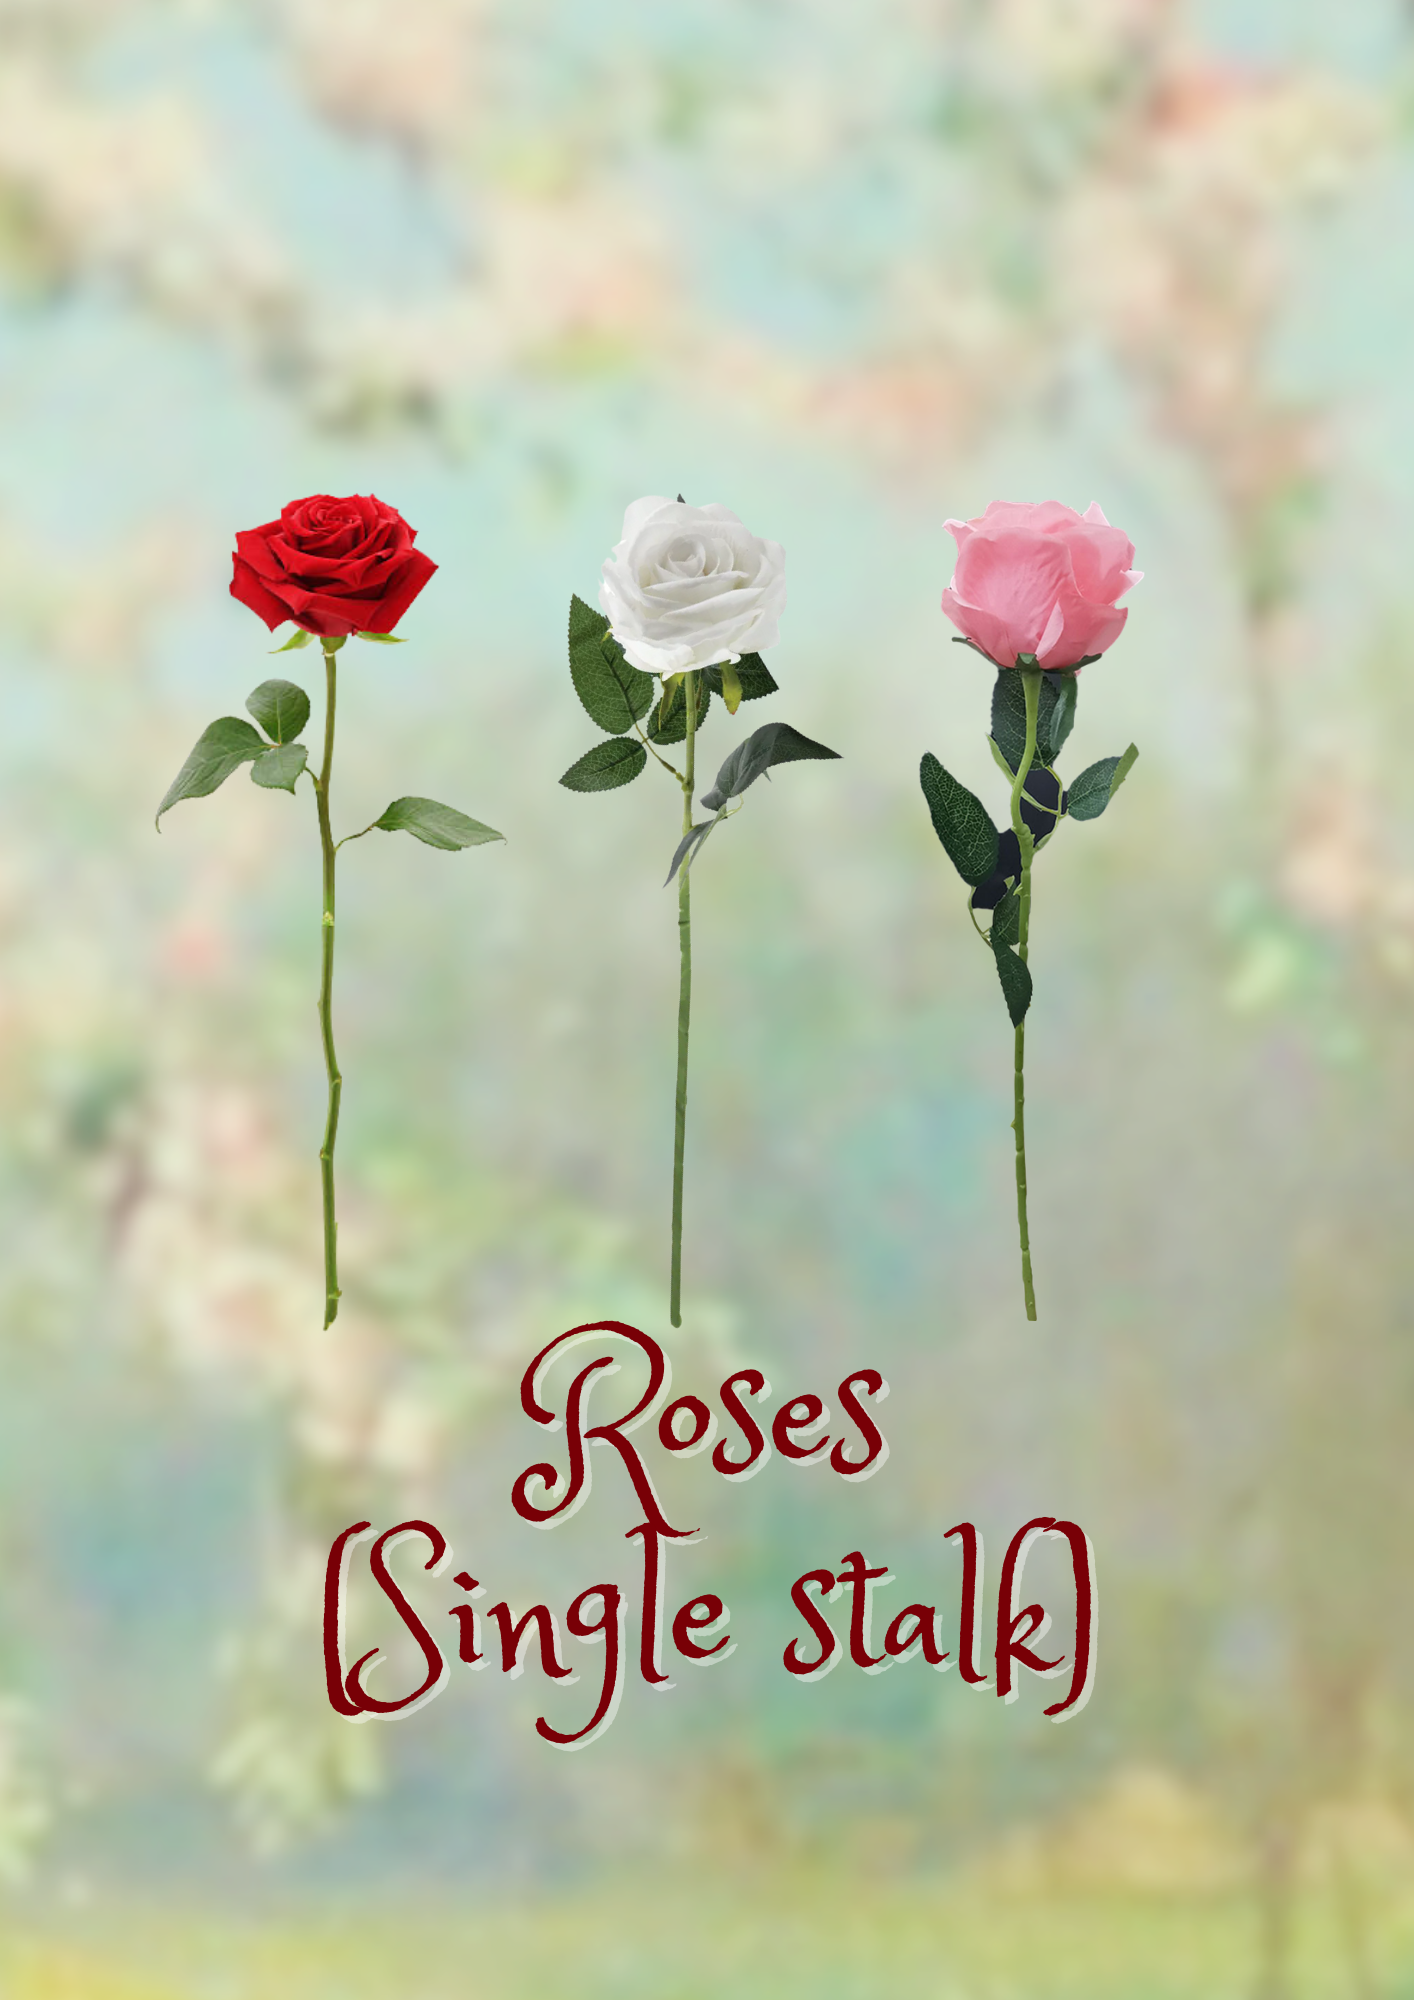
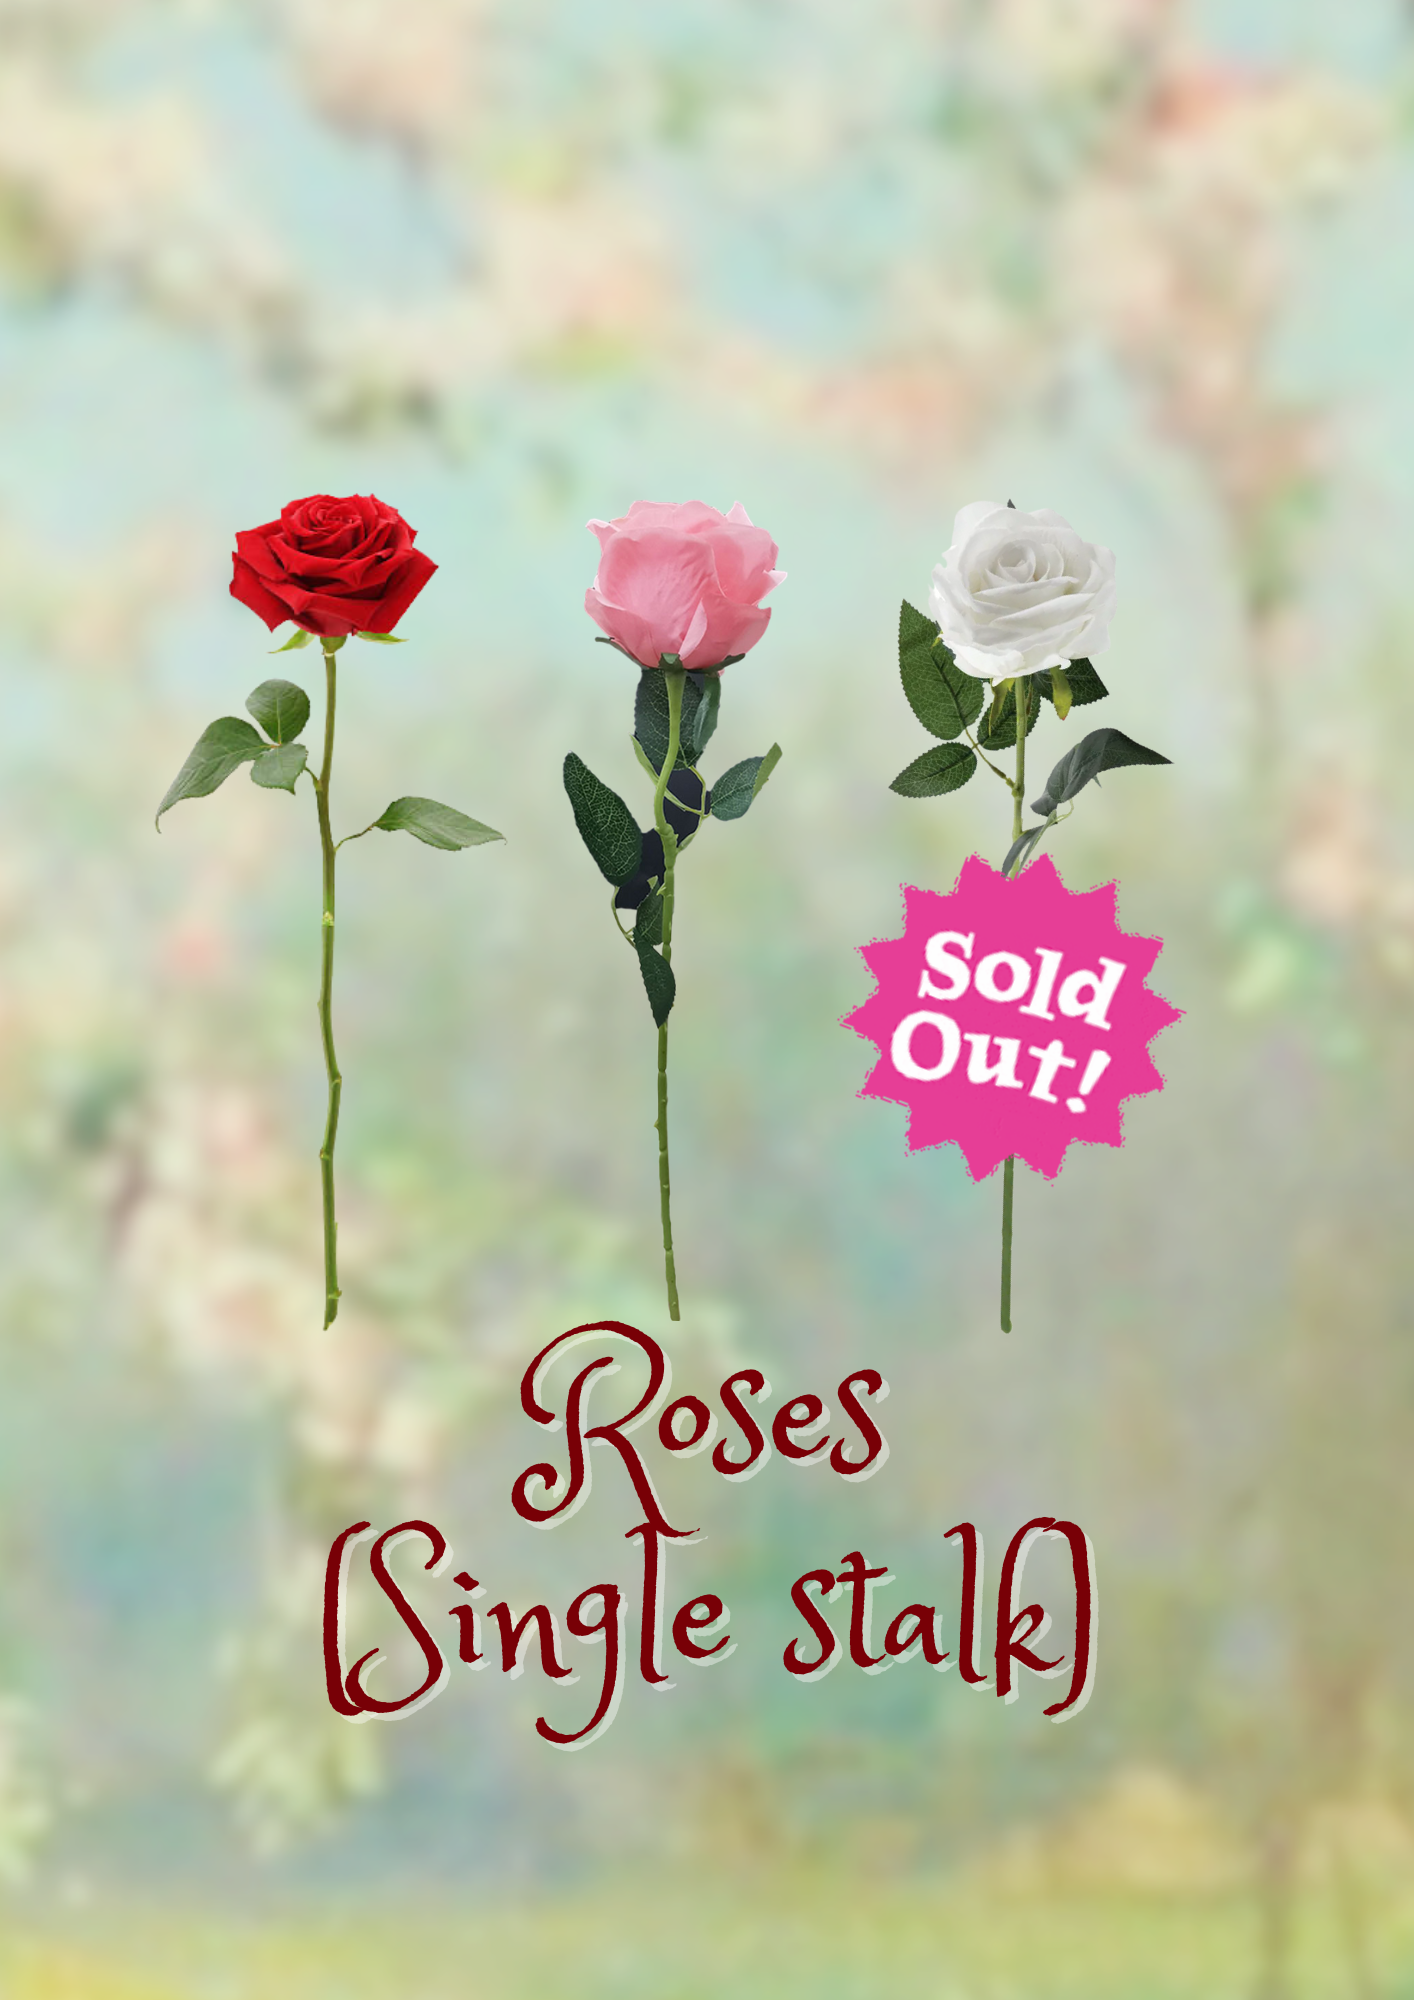
UPDATE: Removed white rose option

Changed region(s): [[0.5912, 0.248, 0.8402, 0.682], [0.3734, 0.248, 0.5912, 0.651]]

diff --git a/src/components/ProductCard.vue b/src/components/ProductCard.vue
@@ -19,7 +19,7 @@ const closeInstructionModal = () => {
 
 // --- DATA: BOUQUET OPTIONS ---
 const flowerOptions = {
-  'Rose': ['White', 'Pink', 'Red'],
+  'Rose': ['Pink', 'Red'],
   'Gerbera': ['White', 'Pink'],
   'Calla Lily': ['Black', 'White']
 }
@@ -359,7 +359,6 @@ const addToCart = () => {
         <select v-model="form.single_flower_color" class="form-select form-select-sm">
           <option value="" disabled>Select Color...</option>
           <option v-if="product.name.includes('Rose')">Red</option>
-          <option v-if="product.name.includes('Rose')">White</option>
           <option v-if="product.name.includes('Rose')">Pink</option>
 
           <option v-if="product.name.includes('Gerbera')">White</option>
